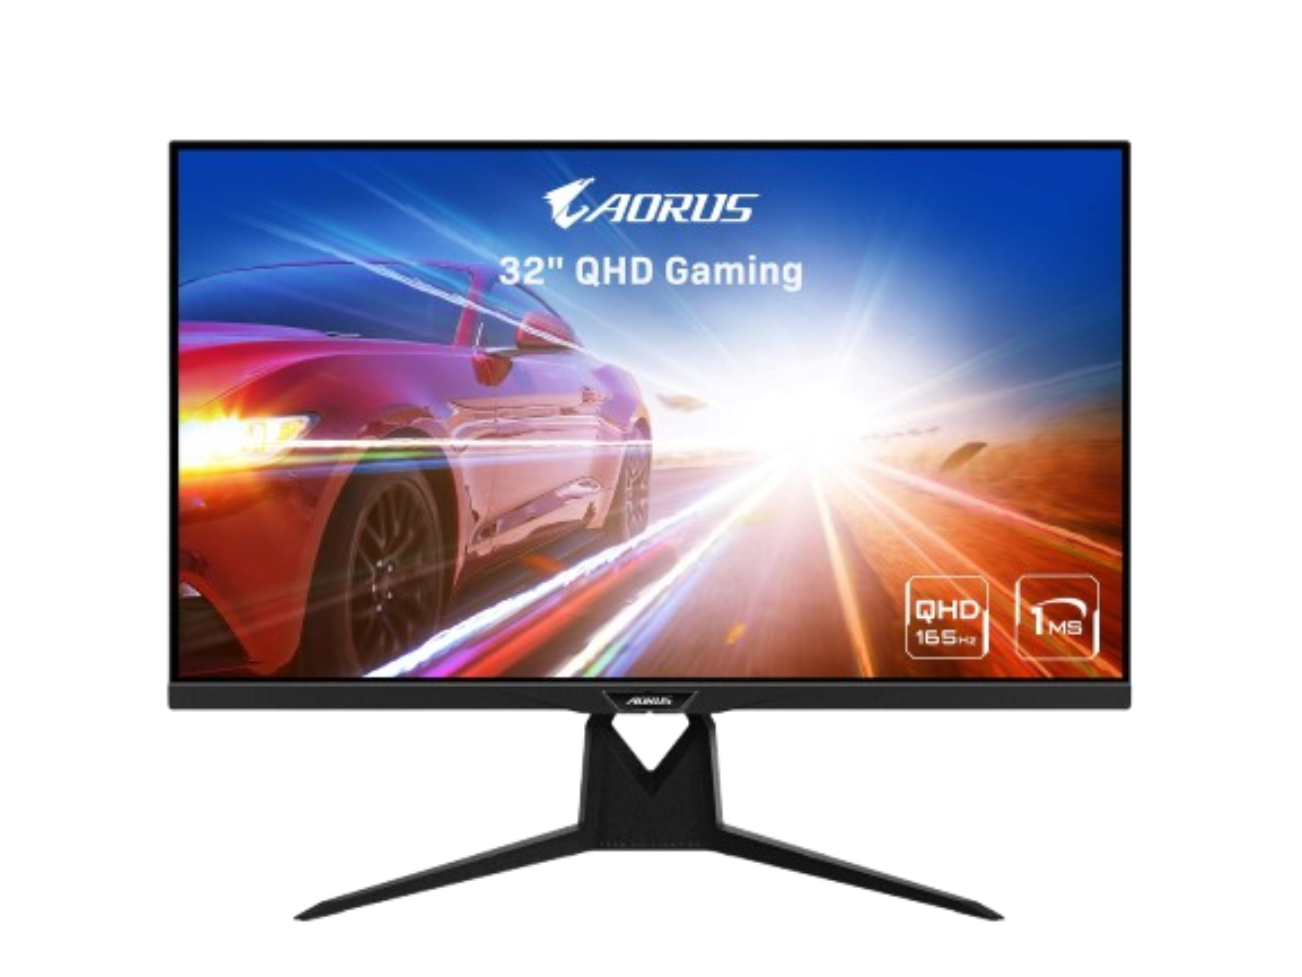
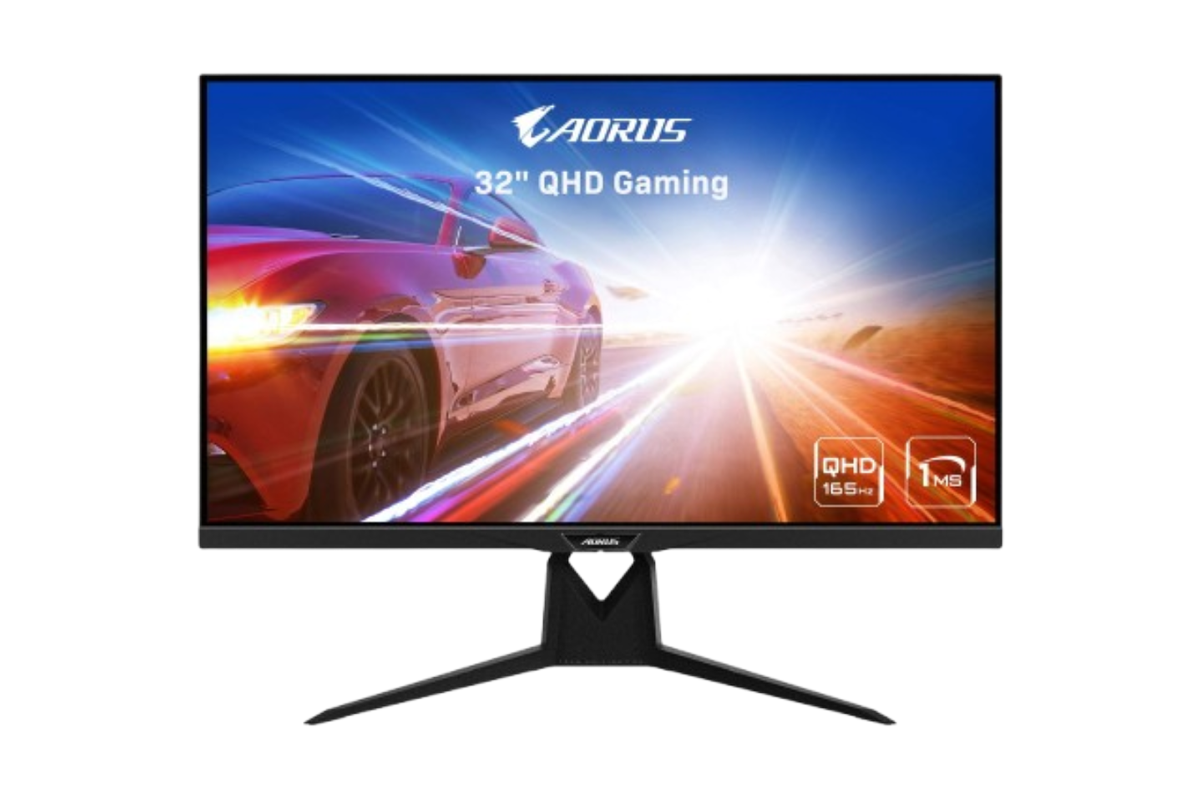
fix(ui): normalize display asset canvas ratios and optical scale consistency

diff --git a/app.js b/app.js
@@ -8,7 +8,7 @@
 
 "use strict";
 
-const DATA_URL = "data.json?v=20261009-nobg";
+const DATA_URL = "data.json?v=20261009-display";
 
 /**
  * Shorthand for document.getElementById.
@@ -40,7 +40,7 @@ function make(tag, className, text) {
  */
 function makeImage(src, alt = "", eager = false) {
   const image = make("img");
-  image.src = src ? (src.includes("?") ? src : `${src}?v=20261009-nobg`) : src;
+  image.src = src ? (src.includes("?") ? src : `${src}?v=20261009-display`) : src;
   image.alt = alt;
   image.decoding = "async";
   if (!eager) image.loading = "lazy";

diff --git a/index.html b/index.html
@@ -47,8 +47,8 @@
     html[data-language="zh"] button.language-toggle [data-lang-option="en"],
     html[lang="zh-Hant"] button.language-toggle [data-lang-option="en"] { color: #64748b !important; }
   </style>
-  <link rel="stylesheet" href="styles.css?v=20261009-nobg">
-  <script defer src="app.js?v=20261009-nobg"></script>
+  <link rel="stylesheet" href="styles.css?v=20261009-display">
+  <script defer src="app.js?v=20261009-display"></script>
 </head>
 <body>
   <a class="skip-link" id="skip-link" href="#main-content">Skip to main content</a>

diff --git a/styles.css b/styles.css
@@ -1479,7 +1479,7 @@ input:disabled {
   min-height: 0;
   max-height: 100%;
   object-fit: contain;
-  padding: 18px;
+  padding: 12px;
   transition: transform 160ms ease;
 }
 
